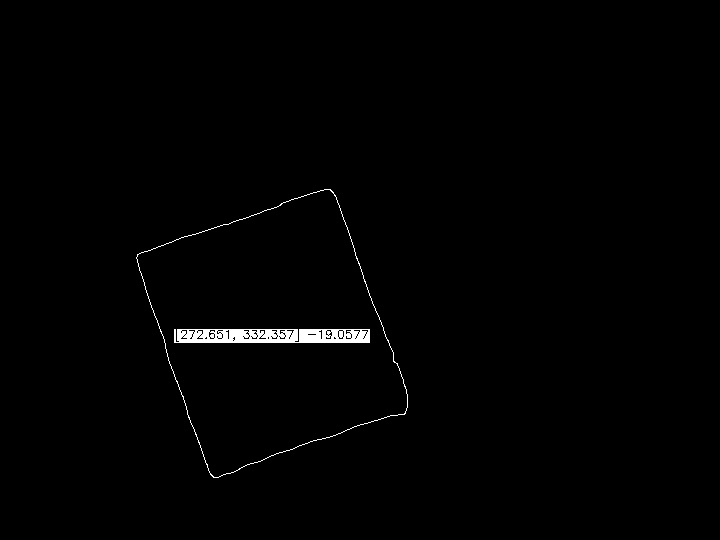
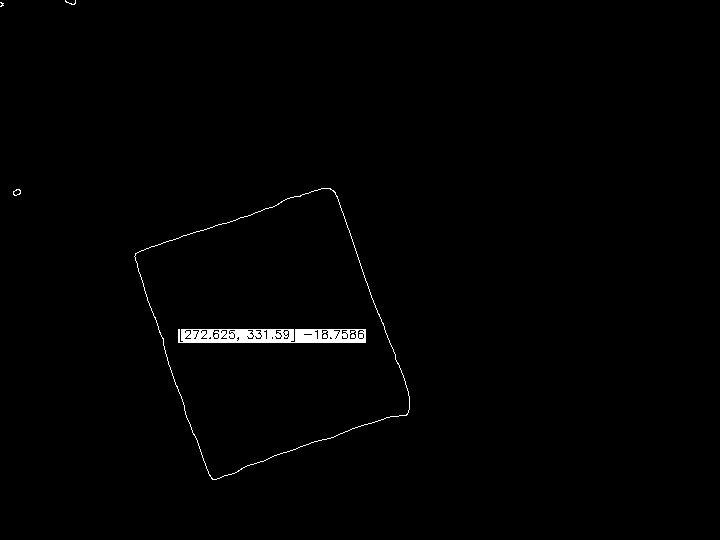
Need to perform calibration to get correct extrinsic parameters

diff --git a/include/hand_publisher/FabricVision.h b/include/hand_publisher/FabricVision.h
@@ -70,33 +70,33 @@ public:
                   const std::string &window_name = "Camera Image") const;
   void getFrame();
   void applyFilters();
+  void applyFilters(cv::Mat &image);
   void showFrame(const std::string &window_name = "Filtered Image") const;
   cv::Mat openFile(const std::string &filename);
   void showImage(const cv::Mat &image,
                  const std::string &window_name = "Display Image") const;
   void saveFile(const cv::Mat &image,
                 const std::string &filename) const;
-  void toGray(cv::Mat &image) const;
-  void toHSV(cv::Mat &image) const;
-  void toBGR(cv::Mat &image) const;
-  void toCanny(cv::Mat &image) const;
+  void loadCalibration(const std::string &filename);
   std::vector<std::vector<cv::Point> > findContours(cv::Mat &image) const;
   cv::Mat setLabels(const cv::Mat& src,
                  const std::vector<std::vector<cv::Point> >& contours) const;
-  void threshold(cv::Mat &image,
-                 const FilterHSV& filter) const;
-  void loadCalibration(const std::string &filename);
-  void morphologicalOpening(cv::Mat& image, int radius = 5);
-  void morphologicalClosing(cv::Mat& image, int radius = 5);
   FilterHSV filter() const;
   void setFilter(const FilterHSV &filter);
   void thresholdGUI(const std::string &window_name = "HSV Control");
   cv::Point3f camera_translation() const;
   void setCamera_translation(const cv::Point3f& camera_translation);
-
 private:
   void calculateVertices(const std_msgs::Bool &msg);
+  void morphologicalOpening(cv::Mat& image, int radius = 5);
+  void morphologicalClosing(cv::Mat& image, int radius = 5);
+  void toGray(cv::Mat &image) const;
+  void toHSV(cv::Mat &image) const;
+  void toBGR(cv::Mat &image) const;
+  void toCanny(cv::Mat &image) const;
 
+  void threshold(cv::Mat &image,
+                 const FilterHSV& filter) const;
   cv::RotatedRect findRectangles(const cv::Mat &image,
                const std::vector<std::vector<cv::Point> > &contours) const;
   void setLabel(cv::Mat& im,

diff --git a/src/FabricVision.cpp b/src/FabricVision.cpp
@@ -44,7 +44,7 @@ namespace raad2015 {
 FabricVision::FabricVision()
 {
   filter_.low_hue = 18;
-  filter_.low_saturation = 85;
+  filter_.low_saturation = 45;
   filter_.low_value = 45;
   filter_.high_hue = 38;
   filter_.high_saturation = 255;
@@ -82,9 +82,9 @@ void FabricVision::calculateVertices(const std_msgs::Bool &msg)
     cv::Mat undistorted_mat;
 
     cv::Mat p = projection_matrix_.clone();
-    p.at<float>(0,3) = camera_translation_.x;
-    p.at<float>(1,3) = camera_translation_.y;
-    p.at<float>(2,3) = camera_translation_.z;
+    p.at<double>(0,3) = camera_translation_.x;
+    p.at<double>(1,3) = camera_translation_.y;
+    p.at<double>(2,3) = camera_translation_.z;
 
     cv::undistortPoints(vertices_mat,
                         undistorted_mat,
@@ -93,12 +93,19 @@ void FabricVision::calculateVertices(const std_msgs::Bool &msg)
                         rectification_matrix_,
                         p);
 
+    std::cout << undistorted_mat << std::endl;
+    for (int i = 0; i < vertices_vec.size(); ++i)
+    {
+        std::cout << vertices_vec[i].x << " " << vertices_vec[i].y << std::endl;
+    }
+
+
     for (int i = 0; i < 4; ++i)
     {
       vert_msg.data.push_back(vertices_vec[i].x);
       vert_msg.data.push_back(vertices_vec[i].y);
     }
-    publisher_.publish(msg);
+    publisher_.publish(vert_msg);
   }
 }
 
@@ -141,6 +148,15 @@ void FabricVision::applyFilters()
   morphologicalOpening(image_);
   morphologicalClosing(image_);
   toCanny(image_);
+}
+
+void FabricVision::applyFilters(cv::Mat &image)
+{
+  toHSV(image);
+  threshold(image,filter_);
+  morphologicalOpening(image);
+  morphologicalClosing(image);
+  toCanny(image);
 }
 
 void FabricVision::showFrame(const std::string &window_name) const

diff --git a/test/test_vision.cpp b/test/test_vision.cpp
@@ -47,9 +47,7 @@ TEST(Hand_Publisher, Fabric_Vision)
 {
   FabricVision vision;
   std::string package_path(PACKAGE_PATH);
-  std::string open_path(package_path);
   std::vector<std::vector<cv::Point> > contours;
-
 
   for (int i = 1; i < 4; ++i )
   {
@@ -58,11 +56,7 @@ TEST(Hand_Publisher, Fabric_Vision)
     open_path.append(boost::lexical_cast<std::string>(i));
     open_path.append(".jpg");
     cv::Mat image = vision.openFile(open_path);
-    vision.toHSV(image);
-    vision.threshold(image, vision.filter());
-    vision.morphologicalOpening(image);
-    vision.morphologicalClosing(image);
-    vision.toCanny(image);
+    vision.applyFilters(image);
     contours = vision.findContours(image);
     image = vision.setLabels(image, contours);
     std::string save_path(package_path);

diff --git a/src/fabric_vision_node.cpp b/src/fabric_vision_node.cpp
@@ -49,13 +49,13 @@ int main(int argc, char** argv)
   calibration_path.append("/config/camera_calibration.yml");
 
   raad2015::FabricVision vision;
-  cv::Point3f trans(0.0, 0.0, 0.5);
+  cv::Point3f trans(0.0, 0.0, 1.0);
   vision.setCamera_translation(trans);
   vision.publishTopic("fabric_vertices");
   vision.subscribeTopic("fabric_localization_request");
   vision.loadCalibration(calibration_path);
-  vision.openCamera();
-  vision.thresholdGUI();
+  vision.openCamera(1);
+//  vision.thresholdGUI();
   ros::Rate rate(30);
 
   while(ros::ok())
